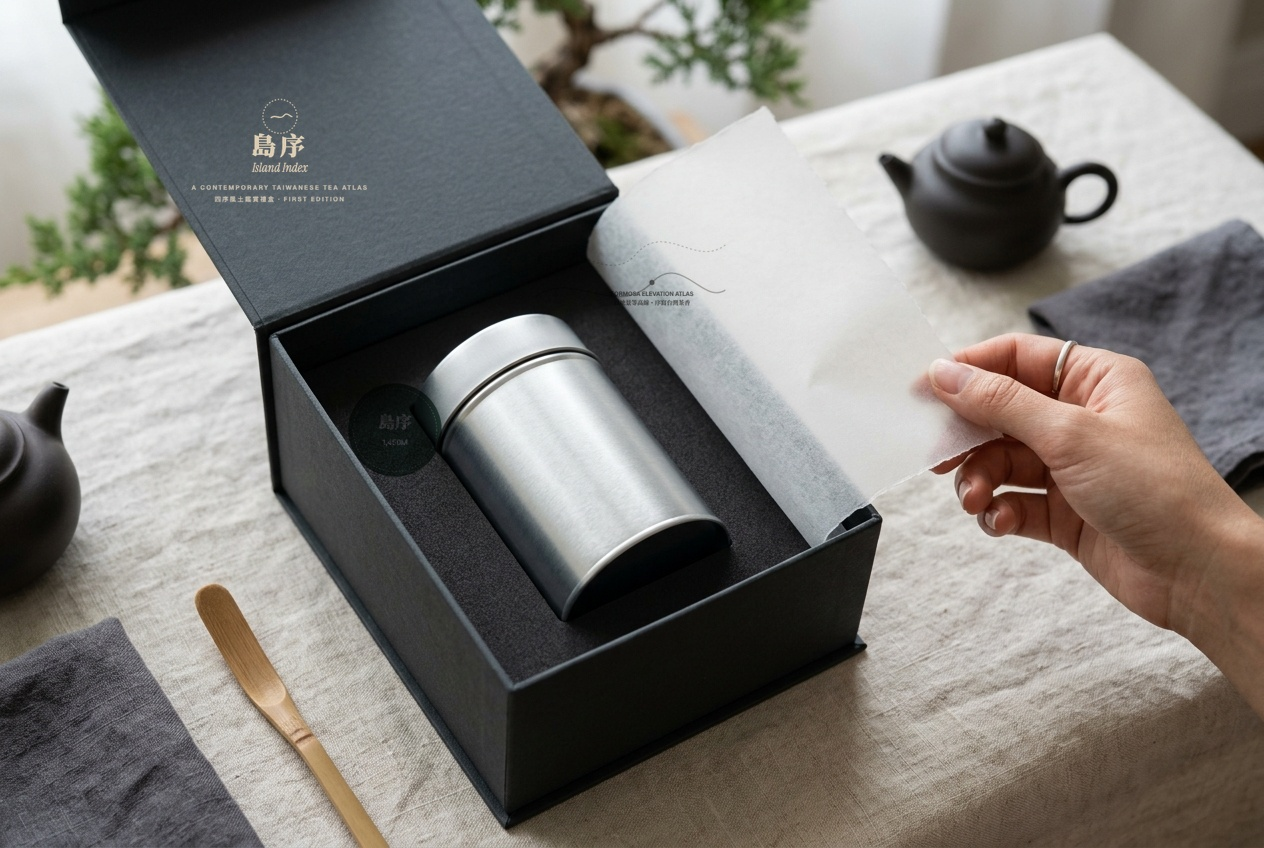
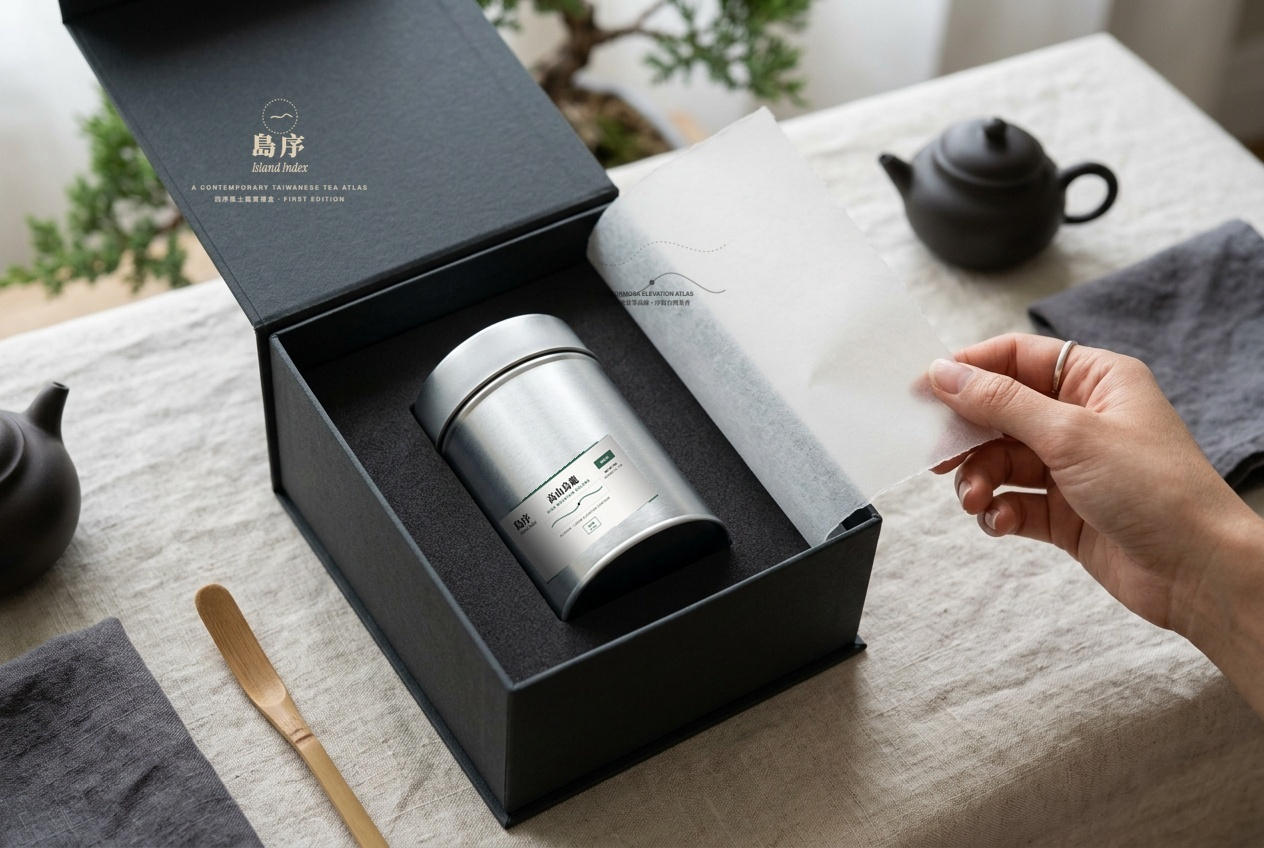
fix(brand): surgical visual consistency patch for gift sets, dimensions, and ecommerce
- P0 (SHOT 07 & SHOT 13): Composite approved master SKU labels (SEQ 01-04) onto gift set canisters with accurate perspective and cylindrical lighting, removing stray seal on foam cavity
- P1 (SHOT 14 & SHOT 15): Label packaging dimensions and dielines as Concept Engineering Specification, disclaiming verified mass-production feasibility pending physical tooling and supplier sampling
- P1 (SHOT 17): Explicitly designate NT$ 1,280 as Concept Price (概念定價) in digital commerce UI and buttons
- Update case study captions (index.html), PRODUCT_AUDIT.md, and master visual contact sheet (island-index-contact-sheet.jpg)

Changed region(s): [[0.4011, 0.5212, 0.5245, 0.6745], [0.2777, 0.4599, 0.3703, 0.5825]]

diff --git a/brand/island-index/index.html b/brand/island-index/index.html
@@ -419,12 +419,12 @@
 
         <!-- Technical Dieline Presentation (Shots 14 & 15) -->
         <div class="grid-12" style="margin-bottom: 48px;">
-          <div class="visual-half visual-plate" data-lightbox data-lightbox-src="./assets/mockups/shot-14.jpg" data-caption-zh="SHOT 14 — 島序 包裝物理尺寸與幾何工程比例立面圖" data-caption-en="SHOT 14 — Island Index Physical Scale &amp; Engineering Elevation">
+          <div class="visual-half visual-plate" data-lightbox data-lightbox-src="./assets/mockups/shot-14.jpg" data-caption-zh="SHOT 14 — 島序 包裝物理尺寸與幾何工程規格立面圖（概念工程規格）" data-caption-en="SHOT 14 — Island Index Physical Scale &amp; Concept Engineering Elevation">
             <span class="visual-badge">SHOT 14 / SCALE &amp; PROPORTION</span>
             <img src="./assets/mockups/shot-14.jpg" alt="島序 包裝物理尺寸比例立面圖" width="1264" height="848" loading="lazy">
           </div>
 
-          <div class="visual-half visual-plate" data-lightbox data-lightbox-src="./assets/mockups/shot-15.jpg" data-caption-zh="SHOT 15 — 島序 四面包裝展開設計母稿與印刷加工規範" data-caption-en="SHOT 15 — Island Index 4-Panel Packaging Master Artwork Unfold">
+          <div class="visual-half visual-plate" data-lightbox data-lightbox-src="./assets/mockups/shot-15.jpg" data-caption-zh="SHOT 15 — 島序 四面包裝展開設計母稿與加工規範（概念工程規格）" data-caption-en="SHOT 15 — Island Index 4-Panel Packaging Master Artwork Unfold (Concept Engineering Specification)">
             <span class="visual-badge">SHOT 15 / MASTER ARTWORK UNFOLD</span>
             <img src="./assets/mockups/shot-15.jpg" alt="島序 四面紙盒展開圖母稿" width="1264" height="848" loading="lazy">
           </div>
@@ -437,7 +437,7 @@
             <img src="./assets/mockups/shot-06.jpg" alt="字體燙金與深壓凹微距工藝" width="1264" height="848" loading="lazy">
           </div>
 
-          <div class="visual-third visual-plate" data-lightbox data-lightbox-src="./assets/mockups/shot-07.jpg" data-caption-zh="SHOT 07 — 島序 頂級禮盒開箱結構與霧面硫酸紙等高線說明卡" data-caption-en="SHOT 07 — Unboxing Experience with Vellum Topography Insert">
+          <div class="visual-third visual-plate" data-lightbox data-lightbox-src="./assets/mockups/shot-07.jpg" data-caption-zh="SHOT 07 — 島序 頂級禮盒開箱結構、阿里山專屬茶罐與硫酸紙地景圖譜" data-caption-en="SHOT 07 — Unboxing Experience with Alishan Canister Identity &amp; Vellum Map">
             <span class="visual-badge">SHOT 07 / UNBOXING EXPERIENCE</span>
             <img src="./assets/mockups/shot-07.jpg" alt="島序 禮盒開箱體驗" width="1264" height="848" loading="lazy">
           </div>
@@ -518,7 +518,7 @@
         <!-- Touchpoints & Digital (Shots 13, 16, 17) -->
         <div class="grid-12">
           <!-- Shot 13 -->
-          <div class="visual-full visual-plate" data-lightbox data-lightbox-src="./assets/mockups/shot-13.jpg" data-caption-zh="SHOT 13 — 島序 頂級四入茶罐典藏精裝木質漆器禮盒" data-caption-en="SHOT 13 — Island Index Quad-Canister Luxury Collector's Gift Chest">
+          <div class="visual-full visual-plate" data-lightbox data-lightbox-src="./assets/mockups/shot-13.jpg" data-caption-zh="SHOT 13 — 島序 頂級四序茶罐典藏精裝禮盒（四款 SKU 專屬識別茶罐）" data-caption-en="SHOT 13 — Island Index Quad-Canister Luxury Collector's Gift Chest (Full 4-SKU Wrap Identities)">
             <span class="visual-badge">SHOT 13 / LUXURY GIFT COLLECTION</span>
             <img src="./assets/mockups/shot-13.jpg" alt="島序 頂級四入茶葉典藏禮盒全貌" width="1264" height="848" loading="lazy">
           </div>
@@ -530,7 +530,7 @@
           </div>
 
           <!-- Shot 17 -->
-          <div class="visual-half visual-plate" data-lightbox data-lightbox-src="./assets/mockups/shot-17.jpg" data-caption-zh="SHOT 17 — 島序 品牌數位旗艦電商介面（桌面與行動端響應式體驗）" data-caption-en="SHOT 17 — Digital Flagship E-Commerce Experience (Responsive Desktop &amp; Mobile UI)">
+          <div class="visual-half visual-plate" data-lightbox data-lightbox-src="./assets/mockups/shot-17.jpg" data-caption-zh="SHOT 17 — 島序 品牌數位旗艦電商介面（概念定價與響應式體驗）" data-caption-en="SHOT 17 — Digital Flagship E-Commerce Experience (Concept Price &amp; Responsive UI)">
             <span class="visual-badge">SHOT 17 / DIGITAL COMMERCE UI</span>
             <img src="./assets/mockups/shot-17.jpg" alt="島序 品牌數位電商官網介面" width="1264" height="848" loading="lazy">
           </div>

diff --git a/brand/island-index/assets/mockups/shot-14-scale-proportions.html b/brand/island-index/assets/mockups/shot-14-scale-proportions.html
@@ -169,7 +169,7 @@
       <span style="font-size: 12px; color: #8C887F; margin-left: 12px;">DIMENSIONAL SPECIFICATIONS &amp; ERGONOMIC RATIOS</span>
     </div>
     <div class="doc-meta">
-      DWG REF: FLTL-II-PKG-014 · 1:1 METRIC PROPORTIONS · CONCEPT V2.0
+      DWG REF: FLTL-II-PKG-014 · 1:1 METRIC PROPORTIONS · CONCEPT ENGINEERING SPECIFICATION
     </div>
   </div>
 
@@ -318,7 +318,7 @@
         <div class="spec-row"><span class="spec-k">Dimensions:</span><span class="spec-v">W380 × D200 × H100 mm</span></div>
         <div class="spec-row"><span class="spec-k">Outer Wrap:</span><span class="spec-v">160gsm Charcoal Fine Linen Paper</span></div>
         <div class="spec-row"><span class="spec-k">Insert:</span><span class="spec-v">High-Density Flocked Velvet EVA (35mm)</span></div>
-        <div class="spec-row"><span class="spec-k">Total Net:</span><span class="spec-v">250g (4 Single Terroirs)</span></div>
+        <div class="spec-row"><span class="spec-k">Total Net:</span><span class="spec-v">300g (4 × 75g Single Terroirs)</span></div>
       </div>
     </div>
 
@@ -332,37 +332,37 @@
           <div>
             <div style="width: 100%; height: 26px; background: #3A6351; border-radius: 2px;"></div>
             <div style="font-size: 9px; font-weight: 600; margin-top: 3px;">SEQ 01 · 1450m</div>
-            <div style="font-size: 8px; color: #8C887F;">PANTONE 5545 C</div>
+            <div style="font-size: 8px; color: #8C887F;">PANTONE 5545 C (CONCEPT)</div>
           </div>
           <div>
             <div style="width: 100%; height: 26px; background: #A65A38; border-radius: 2px;"></div>
             <div style="font-size: 9px; font-weight: 600; margin-top: 3px;">SEQ 02 · 0450m</div>
-            <div style="font-size: 8px; color: #8C887F;">PANTONE 7586 C</div>
+            <div style="font-size: 8px; color: #8C887F;">PANTONE 7586 C (CONCEPT)</div>
           </div>
           <div>
             <div style="width: 100%; height: 26px; background: #942923; border-radius: 2px;"></div>
             <div style="font-size: 9px; font-weight: 600; margin-top: 3px;">SEQ 03 · 0750m</div>
-            <div style="font-size: 8px; color: #8C887F;">PANTONE 7622 C</div>
+            <div style="font-size: 8px; color: #8C887F;">PANTONE 7622 C (CONCEPT)</div>
           </div>
           <div>
             <div style="width: 100%; height: 26px; background: #4A3B32; border-radius: 2px;"></div>
             <div style="font-size: 9px; font-weight: 600; margin-top: 3px;">SEQ 04 · 0800m</div>
-            <div style="font-size: 8px; color: #8C887F;">PANTONE 440 C</div>
+            <div style="font-size: 8px; color: #8C887F;">PANTONE 440 C (CONCEPT)</div>
           </div>
         </div>
       </div>
 
       <!-- Compliance stamp -->
-      <div style="background: rgba(255,255,255,0.7); border: 1px solid rgba(26,26,24,0.12); border-radius: 4px; padding: 14px 10px; font-size: 8.5px; line-height: 1.5; color: #6A6760;">
-        <div style="font-weight: 700; color: #121210; margin-bottom: 4px;">SPEC NOTE</div>
-        All dimensions represent concept engineering targets. Tolerances ±0.5mm for carton die-cutting and ±0.2mm for tinplate seam fit.
+      <div style="background: rgba(255,255,255,0.7); border: 1px solid rgba(26,26,24,0.12); border-radius: 4px; padding: 14px 10px; font-size: 8px; line-height: 1.5; color: #6A6760;">
+        <div style="font-weight: 700; color: #121210; margin-bottom: 4px; letter-spacing: 0.08em;">CONCEPT ENGINEERING SPECIFICATION</div>
+        All dimensions represent concept engineering targets pending physical tooling and supplier sampling. Tolerances ±0.5mm carton / ±0.2mm tinplate. No mass-production feasibility claimed.
       </div>
     </div>
   </div>
 
   <div class="footer-bar">
     <span>ISLAND INDEX ARCHITECTURAL PACKAGING SYSTEM · FLTL × HOWARD</span>
-    <span>DISCLAIMER: SELF-INITIATED BRAND CONCEPT / 自主品牌概念提案 · PROVISIONAL DIMENSIONS</span>
+    <span>DISCLAIMER: CONCEPT ENGINEERING SPECIFICATION · 自主品牌概念提案 · NOT VERIFIED FOR MASS PRODUCTION</span>
   </div>
 </body>
 </html>

diff --git a/brand/island-index/assets/mockups/shot-17-digital-commerce.html b/brand/island-index/assets/mockups/shot-17-digital-commerce.html
@@ -355,7 +355,7 @@
             <text x="130" y="242" text-anchor="middle" font-family="'Geist', sans-serif" font-size="7" font-weight="600" fill="#3A6351">1,450M ELEVATION CONTOUR</text>
             <!-- Origin seal -->
             <rect x="110" y="270" width="40" height="22" fill="none" stroke="#3A6351" stroke-width="0.9" />
-            <text x="130" y="280" font-family="'Noto Serif TC', serif" font-weight="900" font-size="7" fill="#3A6351" text-anchor="middle">島序驗證</text>
+            <text x="130" y="280" font-family="'Noto Serif TC', serif" font-weight="900" font-size="7" fill="#3A6351" text-anchor="middle">島序選</text>
             <text x="130" y="288" font-family="'Geist', sans-serif" font-size="5.5" font-weight="700" fill="#3A6351" text-anchor="middle">N° 1450</text>
           </svg>
 
@@ -369,7 +369,12 @@
           <div class="info-seq">SEQUENCE 01 / ELEVATION 1,450M</div>
           <div class="info-title">阿里山樟樹湖 高山烏龍</div>
           <div class="info-en">Alishan High Mountain Oolong · Single Estate Terroir</div>
-          <div class="info-price">NT$ 1,280 <span>/ 75g (2.65 oz) 氣密鋁罐單入裝</span></div>
+          <div class="info-price" style="display: flex; align-items: baseline; gap: 8px; margin-bottom: 8px;">
+            <span style="font-size: 22px; font-weight: 700; color: #121210;">NT$ 1,280</span>
+            <span style="font-size: 9px; font-weight: 700; letter-spacing: 0.1em; background: #E8E5DD; color: #52504A; padding: 2px 7px; border-radius: 2px; text-transform: uppercase;">CONCEPT PRICE · 概念定價</span>
+            <span style="font-size: 11px; color: #8C887F; font-weight: 400;">/ 75g (2.65 oz) 氣密茶罐單入裝</span>
+          </div>
+          <div style="font-size: 8.5px; color: #8C887F; margin-bottom: 16px; letter-spacing: 0.04em;">* 標示售價為品牌提案概念定價（Concept Price），未經商業流通定價驗證，僅供展演參考。</div>
 
           <div class="info-desc">
             採摘自阿里山樟樹湖高程 1,450 公尺茶區，晨昏雲霧籠罩，日夜溫差淬鍊清洌幽蘭茶香。茶湯呈透亮蜜黃微翠色澤，初入口帶幽雅蘭花清香與冷礦山頭氣，喉韻甘甜綿長，展現台灣高山茶之標竿風土。
@@ -395,7 +400,7 @@
           <div class="cta-row">
             <button class="btn-buy">
               <span>加入風土茶匣</span>
-              <span style="font-weight: 400; opacity: 0.8;">· NT$ 1,280</span>
+              <span style="font-weight: 400; opacity: 0.8;">· NT$ 1,280 (CONCEPT)</span>
             </button>
             <div class="btn-fav">♡</div>
           </div>
@@ -424,7 +429,7 @@
           </div>
         </div>
         <div style="font-family: 'Noto Serif TC', serif; font-weight: 700; font-size: 8px;">高山烏龍 1,450m</div>
-        <div style="font-size: 7px; font-weight: 700; margin-top: 2px;">NT$ 1,280</div>
+        <div style="font-size: 7px; font-weight: 700; margin-top: 2px; color: #121210;">NT$ 1,280 <span style="font-size: 5.5px; color: #8C887F; font-weight: 500;">(CONCEPT)</span></div>
         <div style="margin-top: auto; background: #121210; color: #FAF9F6; text-align: center; padding: 6px 0; border-radius: 3px; font-size: 6.5px; font-weight: 600;">
           加入購物袋
         </div>

diff --git a/brand/island-index/assets/mockups/shot-15-packaging-master-artwork.html b/brand/island-index/assets/mockups/shot-15-packaging-master-artwork.html
@@ -120,7 +120,7 @@
       <span style="font-size: 12px; color: #8C887F; margin-left: 16px;">FOUR-PANEL MASTER PACKAGING SPREAD</span>
     </div>
     <div class="doc-ref">
-      SKU 01 · ALISHAN HIGH MOUNTAIN OOLONG · 1,450M · DIE-CUT PRODUCTION DRAWING
+      SKU 01 · ALISHAN HIGH MOUNTAIN OOLONG · 1,450M · DIE-CUT CONCEPT ENGINEERING SPECIFICATION
     </div>
   </div>
 
@@ -274,7 +274,7 @@
 
           <!-- Seal -->
           <rect x="145" y="214" width="35" height="22" fill="none" stroke="#3A6351" stroke-width="0.9" />
-          <text x="162" y="224" font-family="'Noto Serif TC', serif" font-weight="900" font-size="6.5" fill="#3A6351" text-anchor="middle">島序驗證</text>
+          <text x="162" y="224" font-family="'Noto Serif TC', serif" font-weight="900" font-size="6.5" fill="#3A6351" text-anchor="middle">島序選</text>
           <text x="162" y="232" font-family="'Geist', sans-serif" font-size="5.5" font-weight="700" fill="#3A6351" text-anchor="middle">N° 1450</text>
         </g>
 
@@ -331,8 +331,8 @@
   </div>
 
   <div class="footer">
-    <span>ISLAND INDEX PRODUCTION PACKAGING ARCHITECTURE · FLTL × HOWARD</span>
-    <span>ALL VISUAL ASSETS AUTHORED IN VECTOR EPS/SVG · NO HALLUCINATED STRINGS</span>
+    <span>ISLAND INDEX PACKAGING ARCHITECTURE · CONCEPT ENGINEERING SPECIFICATION · FLTL × HOWARD</span>
+    <span>DISCLAIMER: PENDING PHYSICAL TOOLING &amp; SUPPLIER SAMPLING · NO MASS-PRODUCTION FEASIBILITY CLAIMED</span>
   </div>
 </body>
 </html>

diff --git a/brand/island-index/PRODUCT_AUDIT.md b/brand/island-index/PRODUCT_AUDIT.md
@@ -24,6 +24,10 @@
    所有蘭花、野蜜、肉桂、炒栗等風味描述，均定位為 **「概念杯測風味索引（Conceptual Cupping Notes）」**，代表該茶種經傳統工藝製程預期展現之典型官能特徵，而非特定實體批次茶葉之感官評鑑報告。
 7. **防偽與裝飾戳記界定 (Graphic Seals & Disclaimers)**：
    包裝與圖稿中所出現之「島序」、「極選」或裝飾印鑑，純屬平面視覺編排與防偽美學呈現（Decorative Graphic Seals），絕非經農業部茶葉改良場、產銷履歷、有機驗證、ISO 認證或競賽特等獎之法定驗證背書。所有相關數值與標籤一律標註為「Concept Specification / 概念規格」。
+8. **包裝工程規格與公差界定 (Concept Engineering Specification)**：
+   外盒尺寸（W85 × D85 × H140 mm）、圓罐外徑及高度（Ø80 × H110 mm，容裝 75g 散茶）、四入禮盒尺寸（W380 × D200 × H100 mm，容納四罐總淨重 300g）等幾何規格，均為設計提案階段之 **「概念工程規格（Concept Engineering Specification）」**。雖經空間幾何與安全間隙（單入四周間隙 2.5mm、禮盒內襯槽距 8–10mm）核算吻合，但在取得實體刀模打樣與包裝製造商物理量產確認前，嚴禁宣稱已驗證量產可行性。
+9. **電商概念定價界定 (Conceptual E-Commerce Pricing)**：
+   數位旗艦店 UI 所標示之單入售價 `NT$ 1,280` 明確標註為 **「概念定價（Concept Price）」**，僅為完整電商介面與購物流程體驗之情境模擬，絕非真實商業流通之上市售價。
 
 ---
 
@@ -45,6 +49,8 @@
 | **SEQ 04 品種** | 凍頂烏龍 | 凍頂青心烏龍 | 釐清烏龍茶為工藝名稱，品種基底為青心烏龍 |
 | **SEQ 04 工藝** | 焙火 85% / 炭焙 36 小時 (暗示已化驗) | 傳統龍眼木炭焙慢火覆焙 (Roast Level ~85%) | 標註為【概念工藝參數】，註記炭焙時長為示範工藝描述 |
 | **色票規範** | 聲稱逐一對照 Pantone 驗證一致性 | 標記為概念色彩規劃參考 (Conceptual Pantone Palette) | 尚未經印刷廠分光儀實測打樣，明確標註為概念參考，不得冒稱已完成權威驗證 |
+| **包裝尺寸** | 易被誤認為已投入工業模具量產 | 標註為概念工程規格 (Concept Engineering Specification) | 外盒 W85×D85×H140mm、圓罐 Ø80×H110mm、四入禮盒 W380×D200×H100mm，容積公差合理但未經工廠實體打樣，不宣稱量產可行性驗證 |
+| **電商定價** | NT$ 1,280 易被誤認為正式上市定價 | 明確標示為概念定價 (Concept Price) | 單罐 75g 售價 NT$ 1,280 為概念展示模擬數值，未經商業流通定價驗證 |
 
 ---
 
@@ -52,6 +58,6 @@
 
 本紀錄已同步存檔於專案目錄 [`brand/island-index/PRODUCT_AUDIT.md`](file:///Users/howard/Desktop/Portfolio/brand/island-index/PRODUCT_AUDIT.md)。  
 在所有包裝展開圖、品牌官網案例展示頁面與各視角展示圖案中：
-1. 涉及發酵、焙火、海拔與色票數值之處，均明確歸屬於 **概念規格與工藝參考（Concept Specification & Parameters）**。
-2. 凡無客觀測量紀錄或物理打樣驗證之數據，均不使用「已完成權威驗證」、「經過實驗室檢驗」等誤導性措辭。
+1. 涉及發酵、焙火、海拔、色票、包裝尺寸與電商定價之處，均明確歸屬於 **概念規格與工藝參考（Concept Engineering Specification & Parameters）**。
+2. 凡無客觀物理測量紀錄、工廠打樣或商業驗證之數據，均不使用「已完成權威驗證」、「經過實驗室檢驗」或暗示已具備實體量產可行性之措辭。
 3. 聯絡洽詢通道統一指向官方代表信箱 `Fromlifetolines@gmail.com`。
